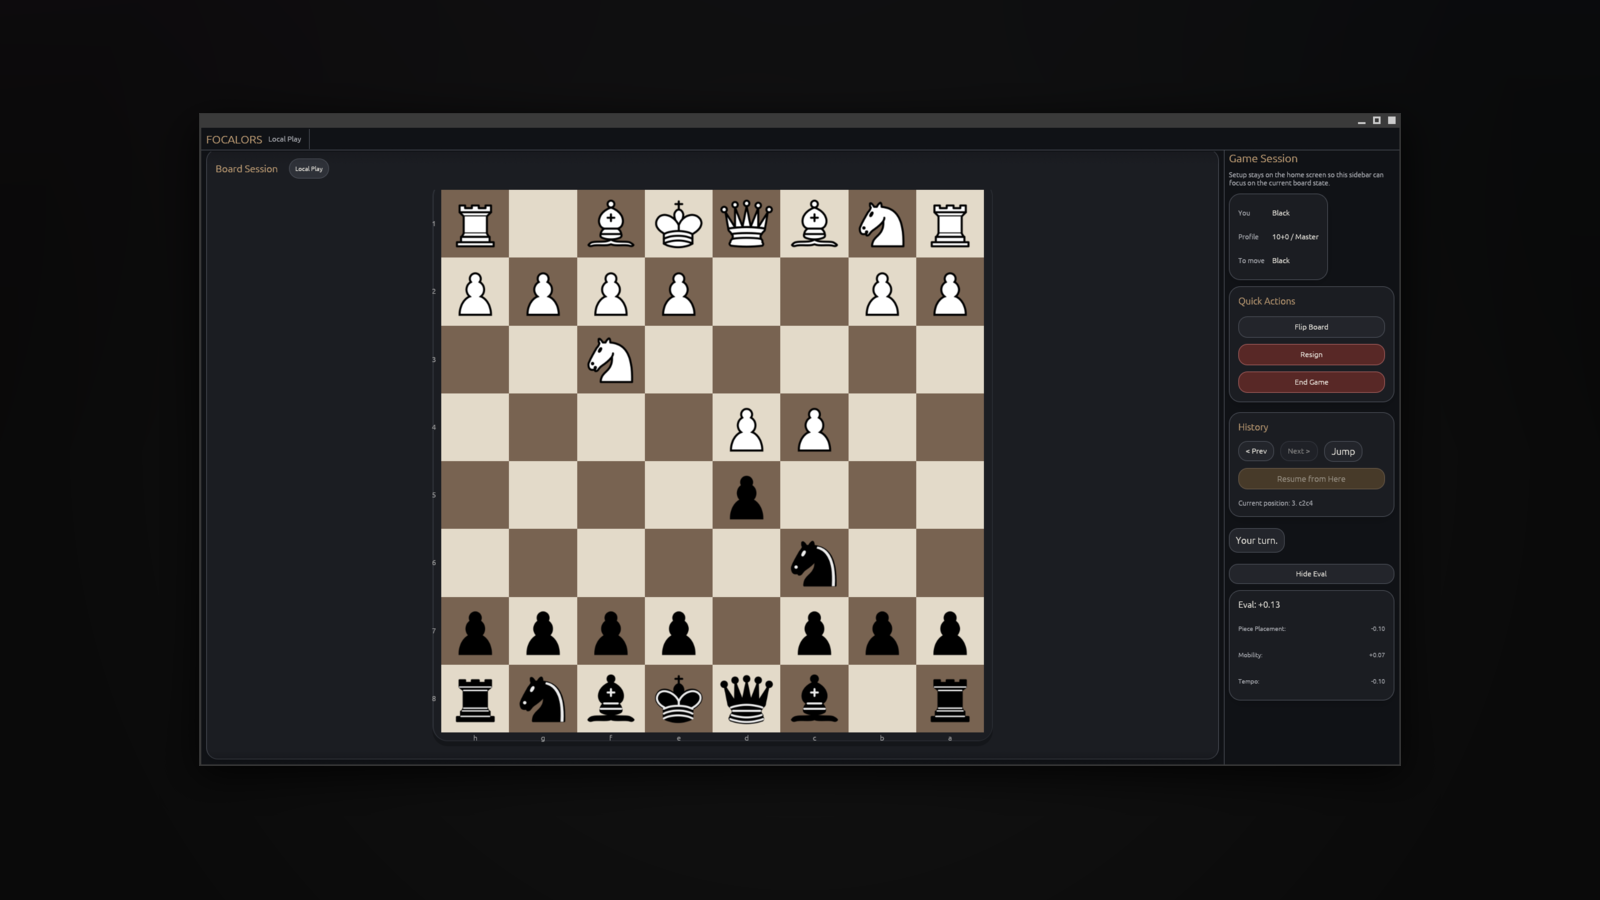
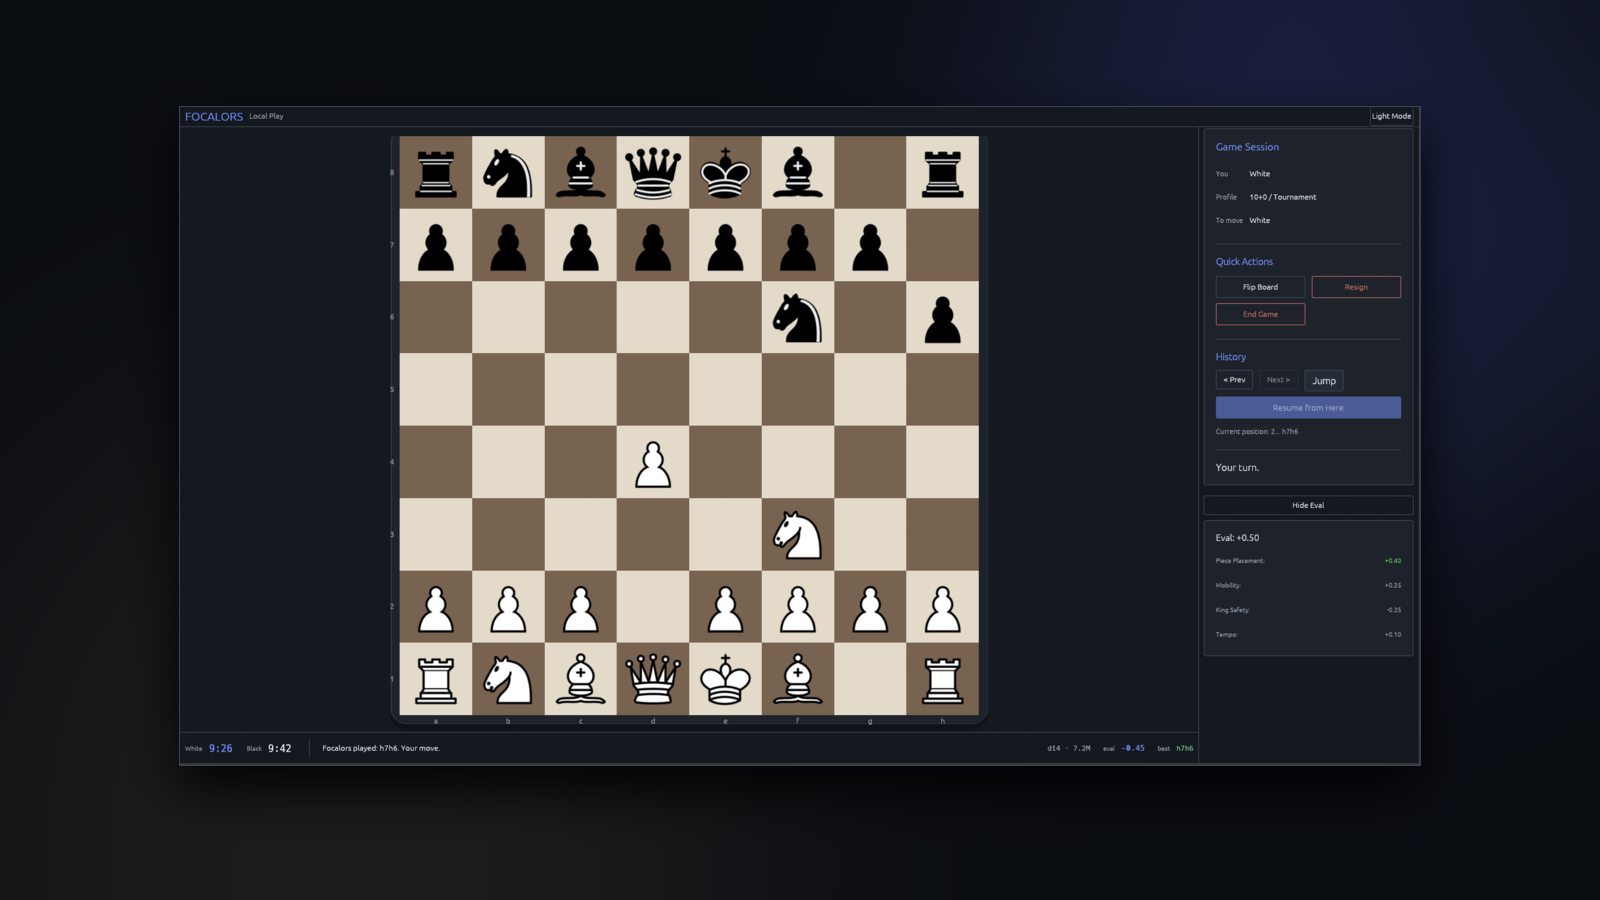
docs: refresh hero and showcase screenshots for redesigned GUI

Changed region(s): [[0.0938, 0.0, 1.0, 0.84], [0.6562, 0.8089, 0.75, 0.84]]

diff --git a/README.md b/README.md
@@ -10,7 +10,7 @@ Focalors (formerly named Hydra/HydraProject during initial development) is an of
 
 The project in its current state ships with most features available and usable, but it needs a lot of further polishment and work
 
-![Focalors desktop GUI with local play and analysis](assets/screenshots/hero.png)
+![Focalors desktop GUI showing a live local game in the redesigned interface](assets/screenshots/hero.png)
 
 ## Current Priorities
 
@@ -83,7 +83,7 @@ Focalors is already usable as both a chess engine and a learning app.
 
 ## Interface Preview
 
-![Focalors showcase covering local play, setup, and game analysis views](assets/screenshots/showcase.png)
+![Focalors showcase with the redesigned local play and statistics views](assets/screenshots/showcase.png)
 
 ## Technical Overview
 
